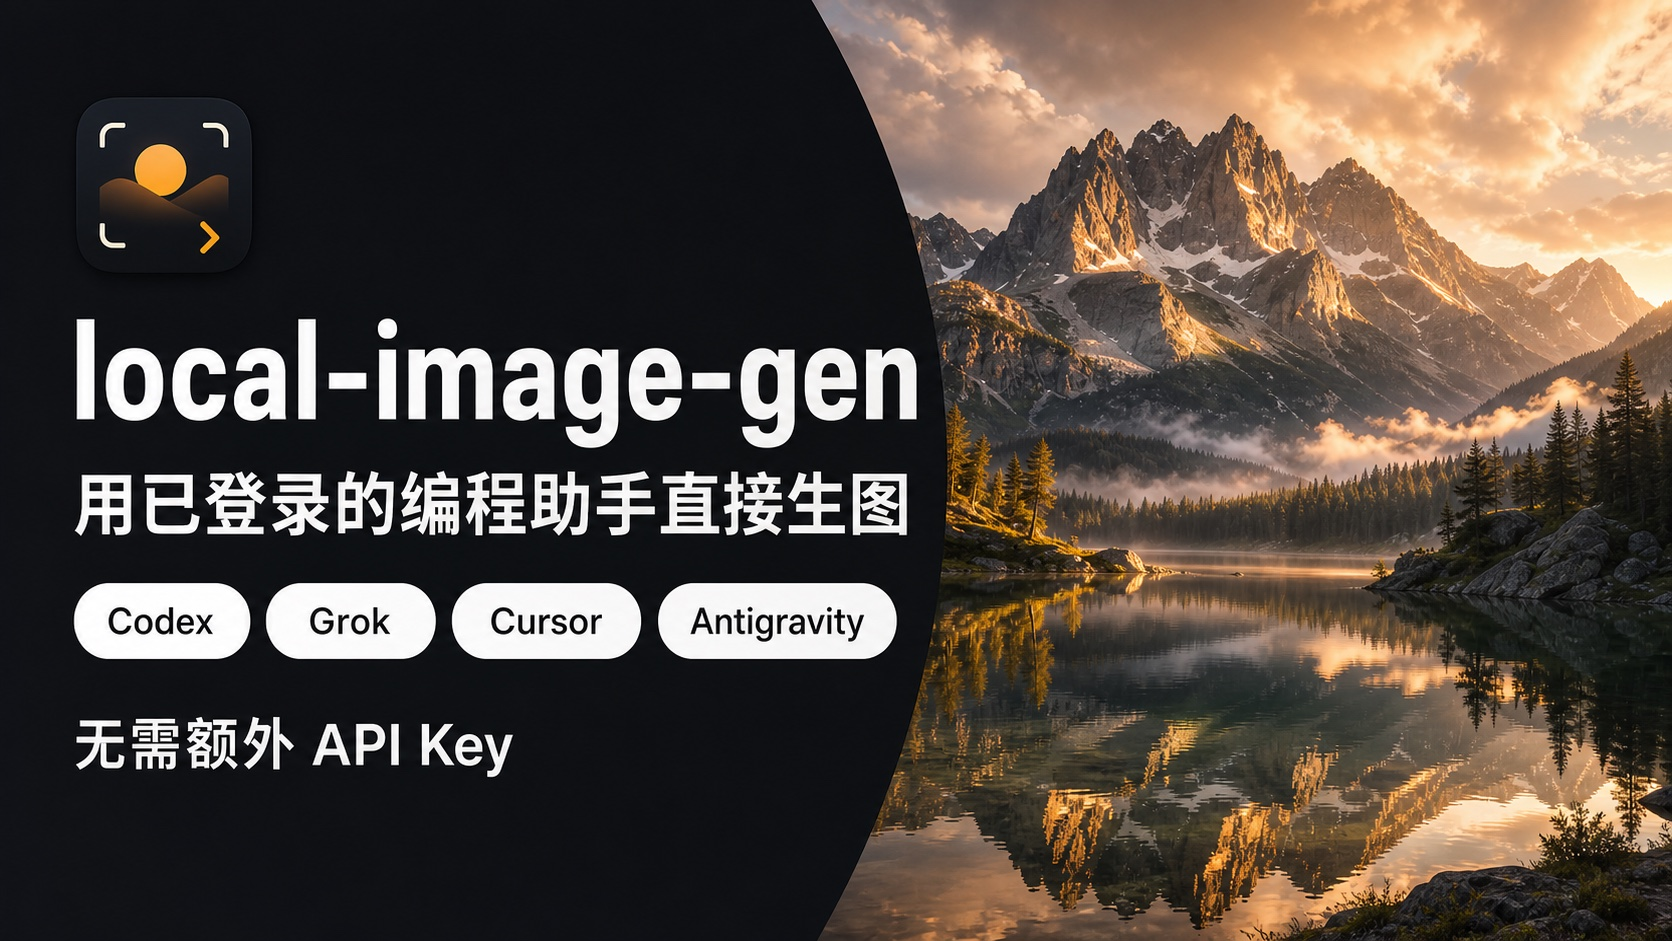
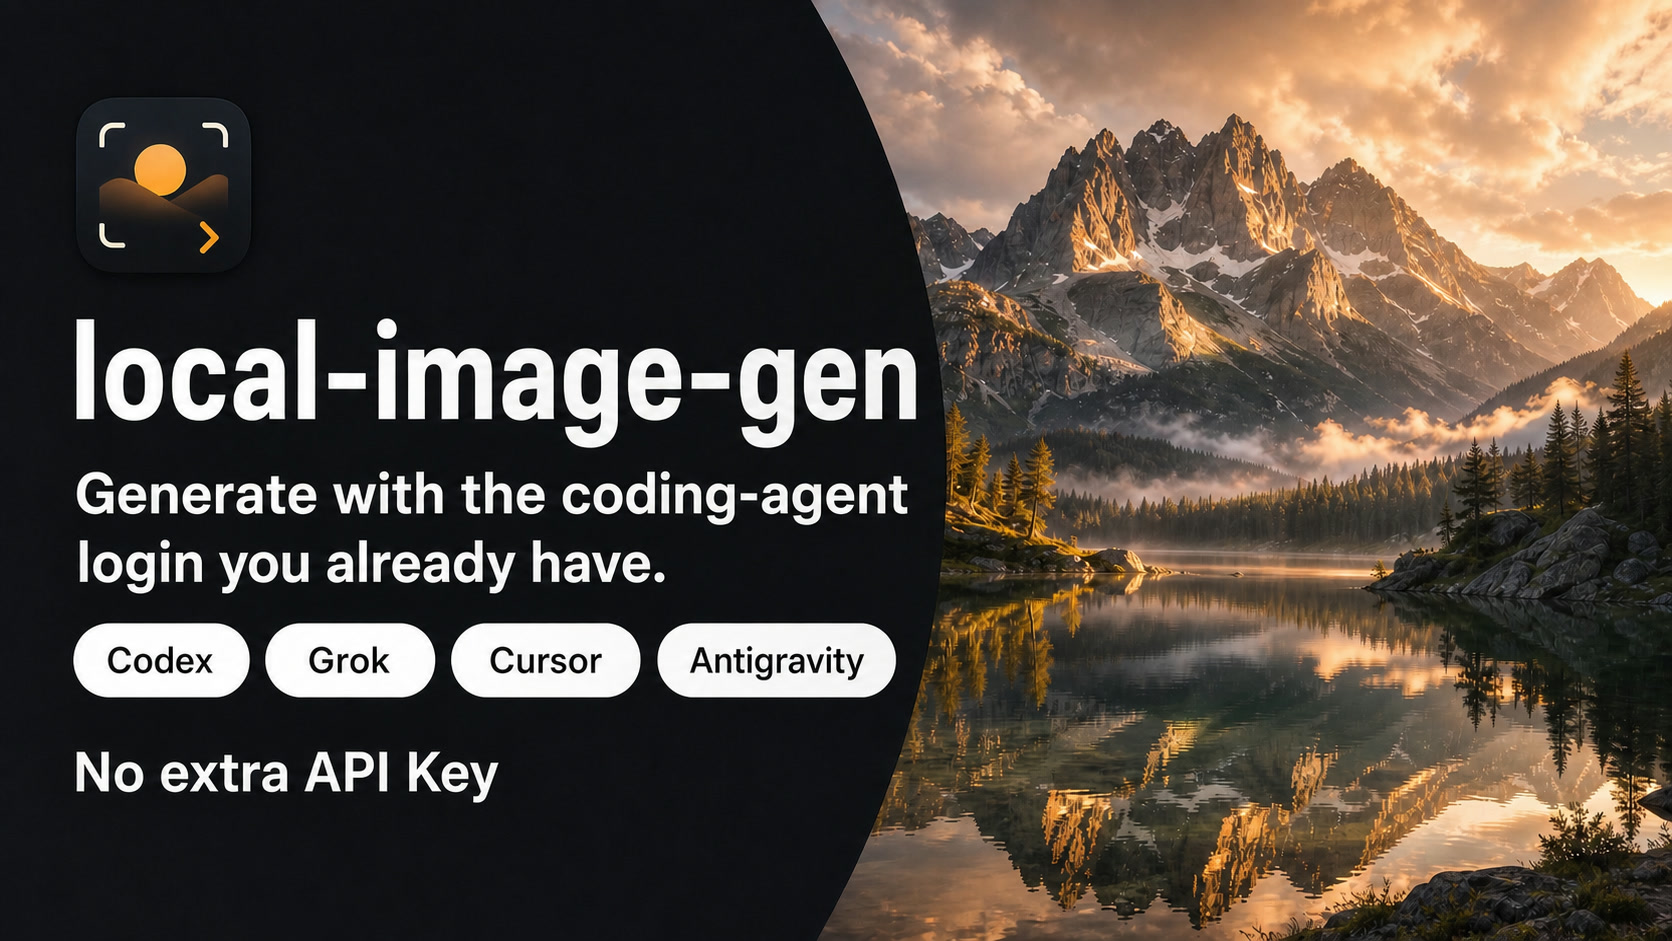
Split the README cover into English and Chinese variants.
Keep the shared landscape and logo; point README.md at the English cover and README.zh-CN.md at the original Chinese slogan.

diff --git a/README.md b/README.md
@@ -12,7 +12,7 @@
 <p align="center"><a href="README.zh-CN.md">中文说明</a></p>
 
 <p align="center">
-  <img src="docs/cover.jpg" width="100%" alt="Cover: generate images with the Codex, Grok, Cursor, or Antigravity login you already have">
+  <img src="docs/cover.jpg" width="100%" alt="Cover: Generate with the coding-agent login you already have. No extra API Key">
 </p>
 
 Python 3.9+, standard library only. Works as a CLI and as a portable agent skill (`SKILL.md`) for Claude, Codex, Grok, Cursor, Gemini, and similar tools.

diff --git a/README.zh-CN.md b/README.zh-CN.md
@@ -12,7 +12,7 @@
 <p align="center"><a href="README.md">English</a></p>
 
 <p align="center">
-  <img src="docs/cover.jpg" width="100%" alt="封面：用已登录的编程助手直接生图，无需额外 API Key">
+  <img src="docs/cover.zh-CN.jpg" width="100%" alt="封面：用已登录的编程助手直接生图，无需额外 API Key">
 </p>
 
 Python 3.9+，只用标准库。既可以当 CLI，也可以当 Claude / Codex / Grok / Cursor / Gemini 等助手的 portable skill（`SKILL.md`）。
